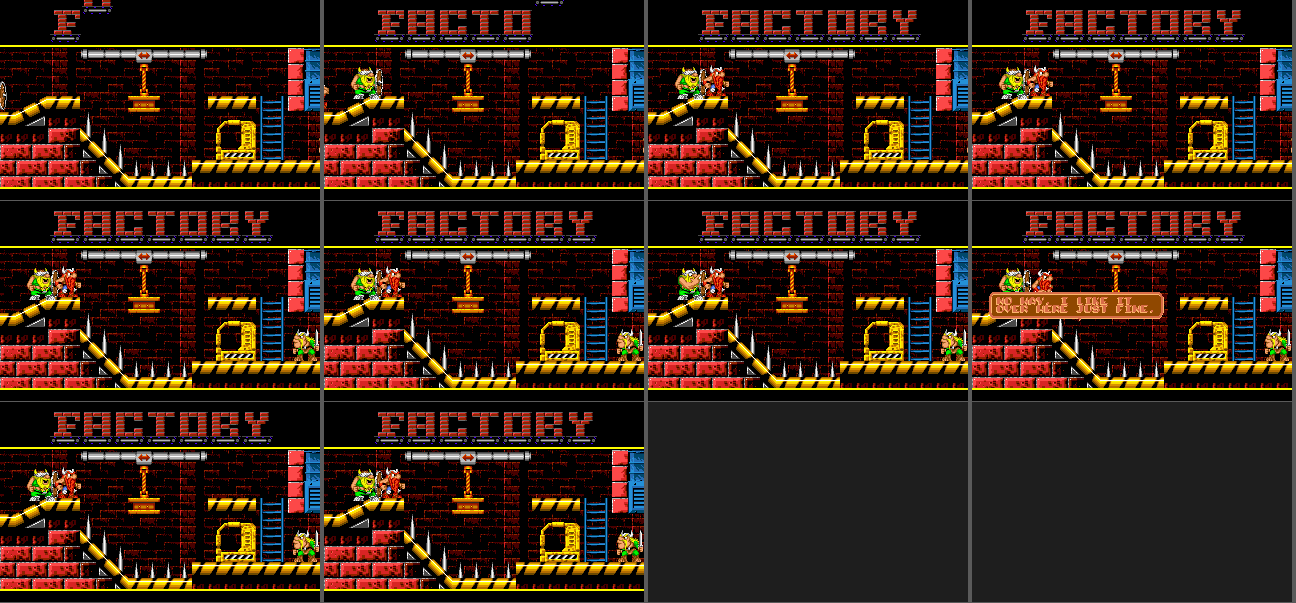
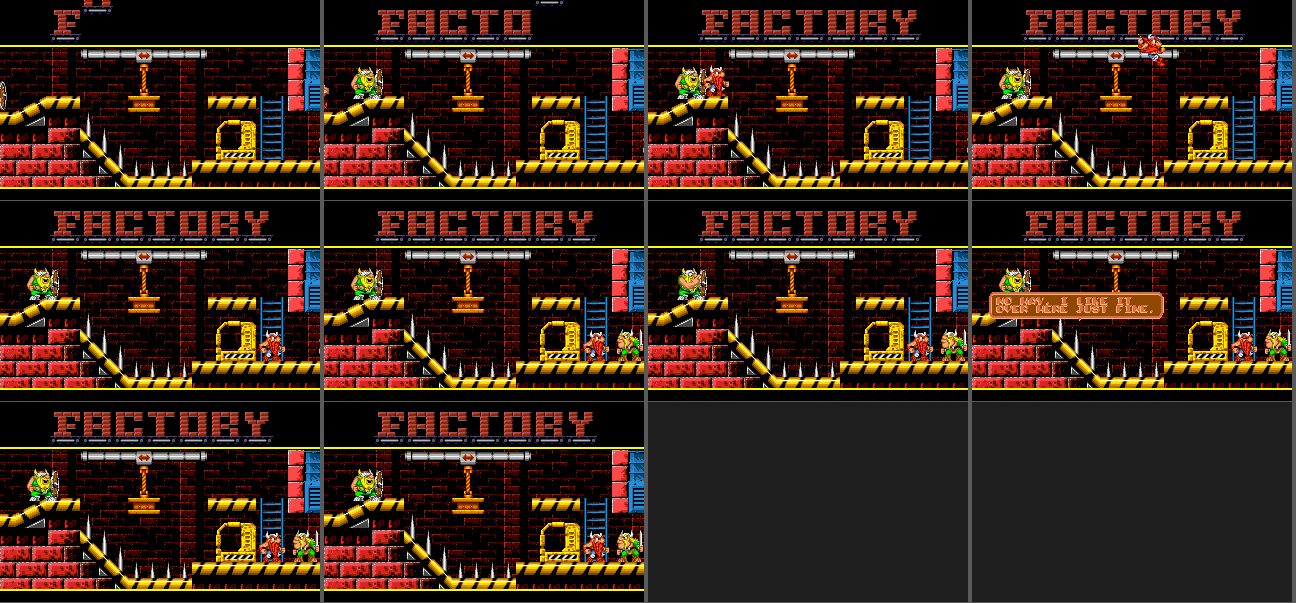
UX stage 1: Erik crosses the Factory scene and climbs down to Baleog's side
The clip's Factory beat: Erik leaves the left beam to the right at ~7 s, ends up
at the top of the right ladder and comes down to the bottom floor, where Baleog
then walks in from the right ("COME ON OVER, OLAF"). On the DE video he rides
the crane hook across; on the PC the hook (class 9B, 144,104, 16x48) does not
take an S press mid-air, and a walking jump off the beam's end (79) already
carries him over the whole gap (apex y 38, landing 216..224 on the right
platform 224..271 — measured), so the jump is what the scene does. He walks to
the right ladder (type-4 top cells at x 272..303), DOWN held snaps him to x 272
and climbs 4 px/tick down rows 7-9 onto the floor at ~271; Baleog's scripted
entry then follows at ~12 s as on the clip. SCENE_EVENTS carries the sequence;
the Factory strip and gallery show the jump and the descent.

diff --git a/tools/assets/integrate_snes.py b/tools/assets/integrate_snes.py
@@ -307,6 +307,17 @@ VIK_SLOT = {"erik": 0, "baleog": 2, "olaf": 4}
 # the room's sensor/cage objects at 256 (the cage drop itself is the
 # Genesis script's, not ported yet).
 SCENE_EVENTS = {54: [("erik", 16.0, [(R, 16), (R | ACT, 2), (R, 12)])],
+                # Factory: Erik leaves the beam to the right (clip ~4 s -> ~7 s),
+                # crosses the gap to the right platform (screen x 224..271) — a
+                # walking jump off the beam's end carries him there (measured:
+                # apex y 38, landing at 216..224) — walks to the right ladder
+                # (type-4 top cells at x 272..303), climbs down with DOWN held
+                # (rows 7-9, 4 px/tick) and steps off onto the bottom floor at
+                # ~271 (the clip's last frame: Erik ~270, Baleog ~300); measured
+                # live: jump f137-157, ladder f182-196, done ~11.6 s, Baleog's
+                # own entry follows at ~12 s as on the clip
+                55: [("erik", 7.0, [(R, 4), (R | ACT, 2), (R, 12), (0, 6), (R, 8), (0, 4), (R, 5), (0, 6),
+                                    (D, 22), (0, 6)])],
                 # Wacky: after his last line Erik walks right to the candy-cane
                 # ladder (room type-3 columns at screen x 112..143, rows 1-6 —
                 # it runs up into the banner band, whose rows carry no type
